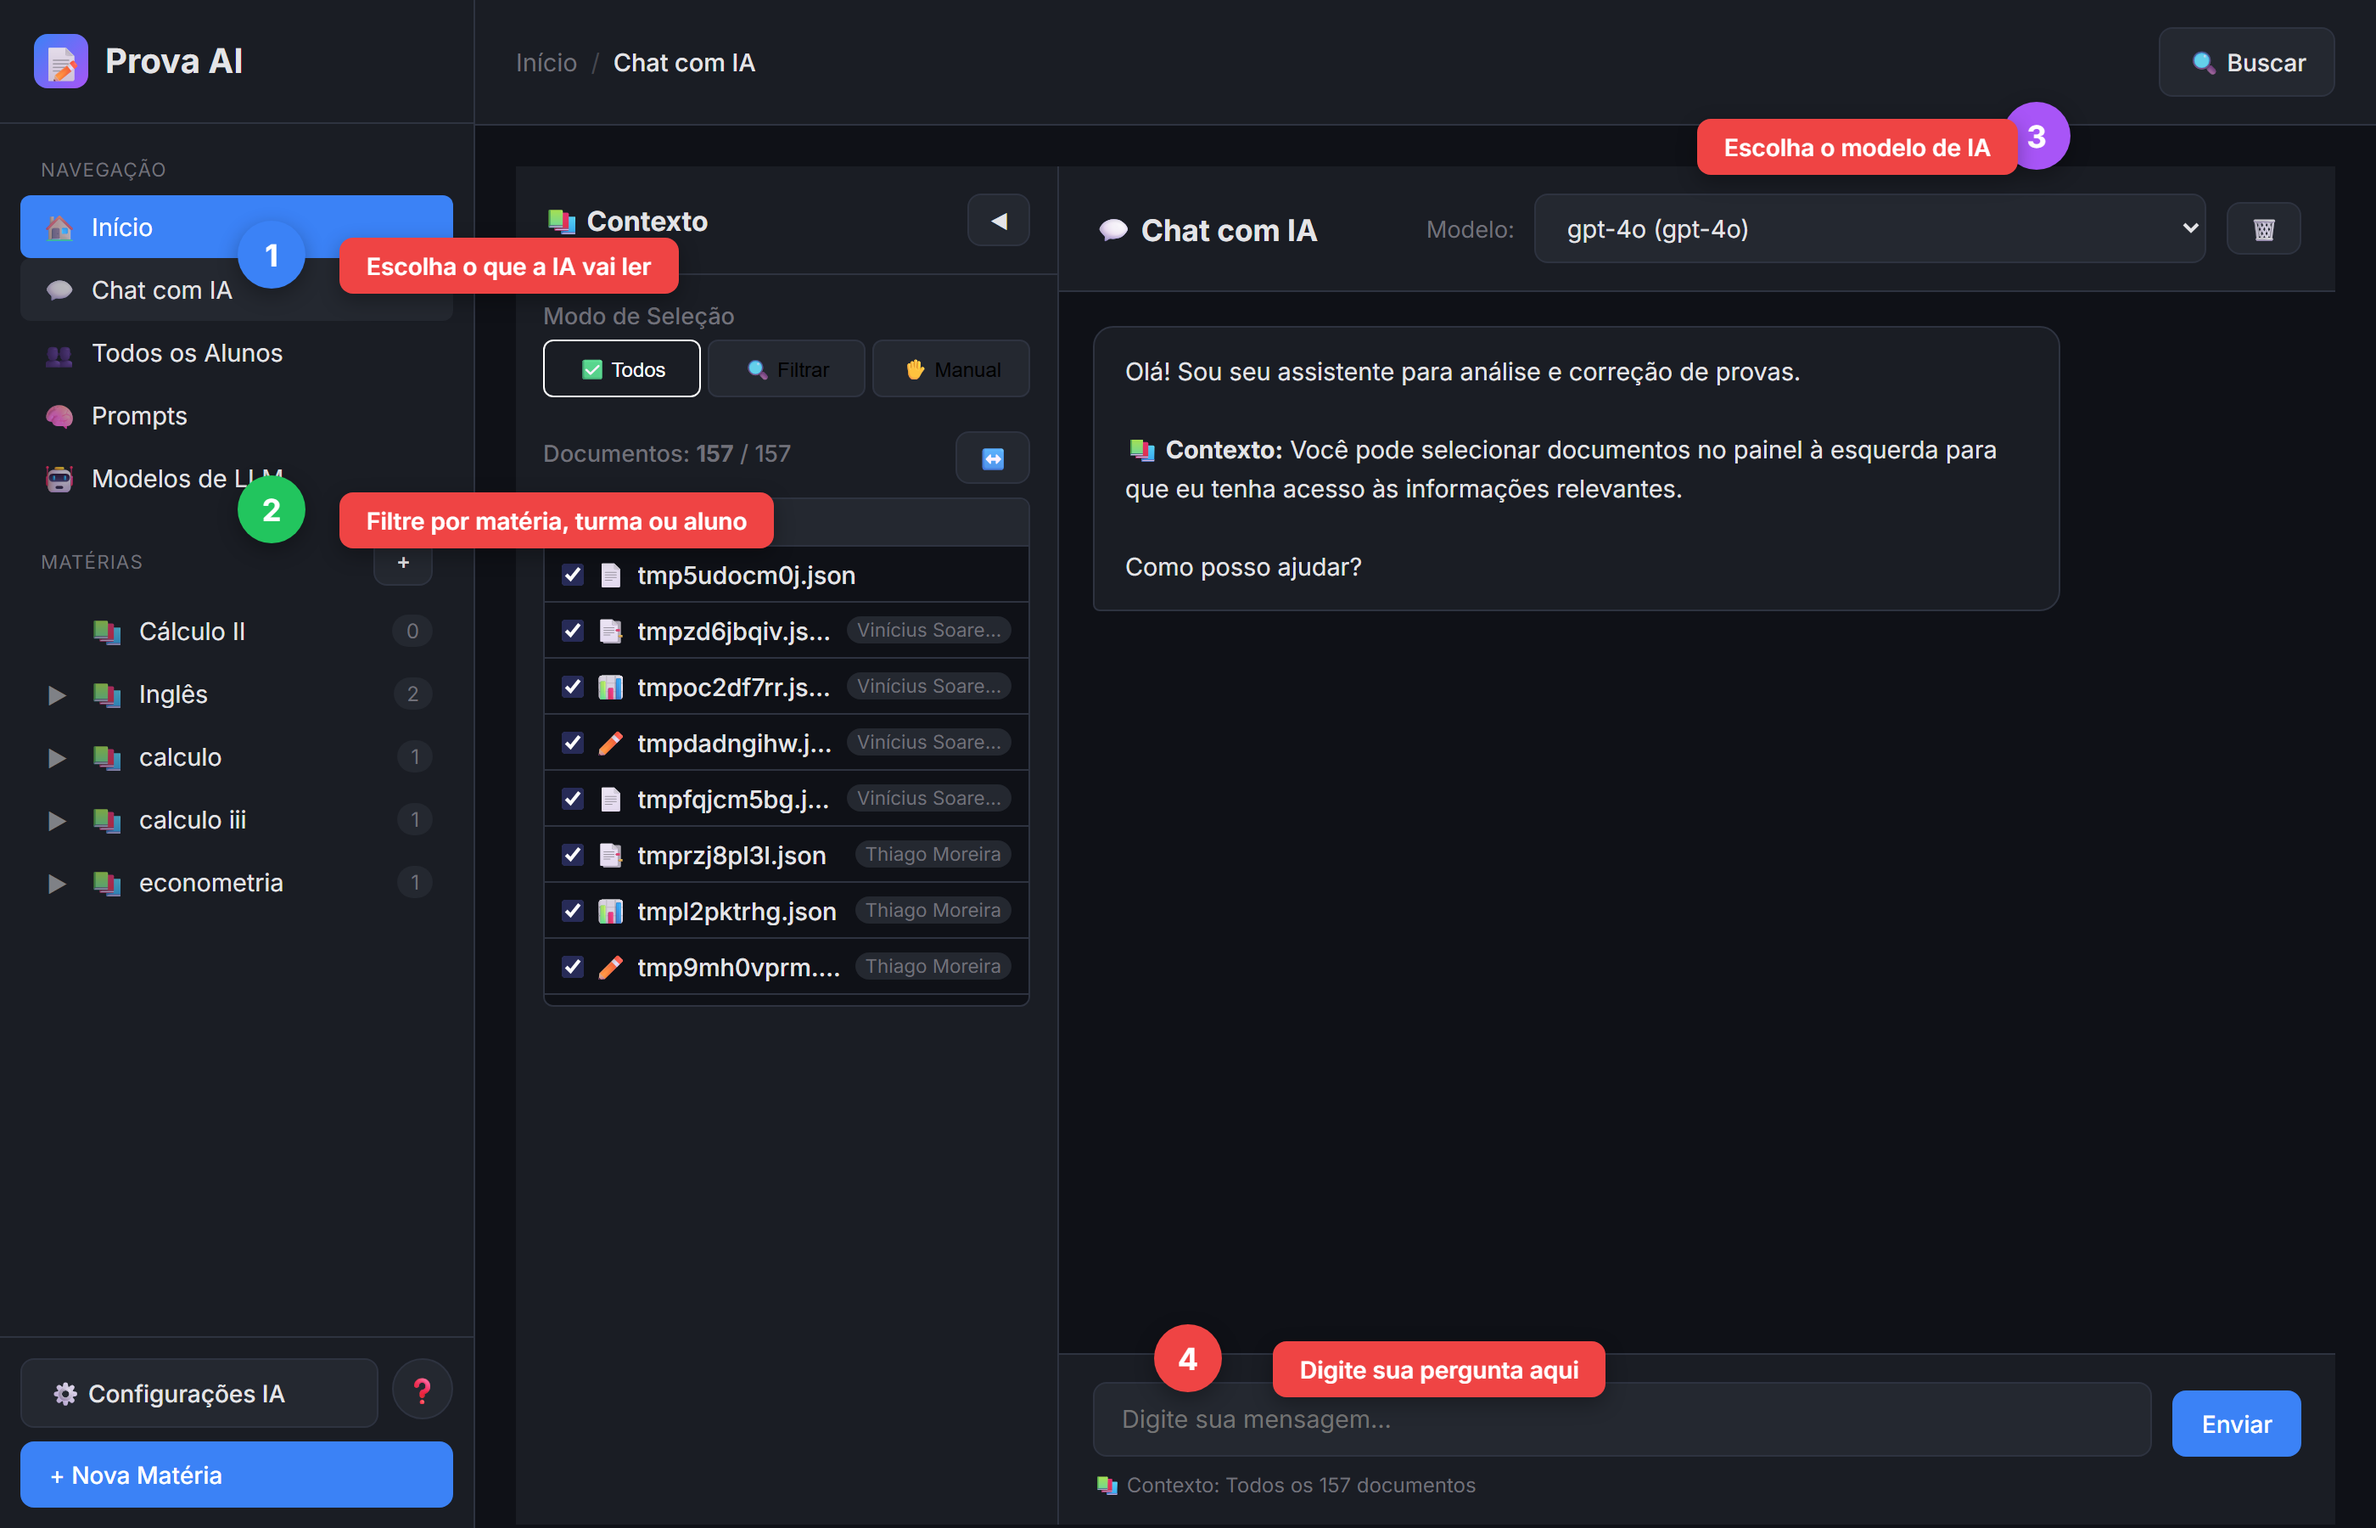
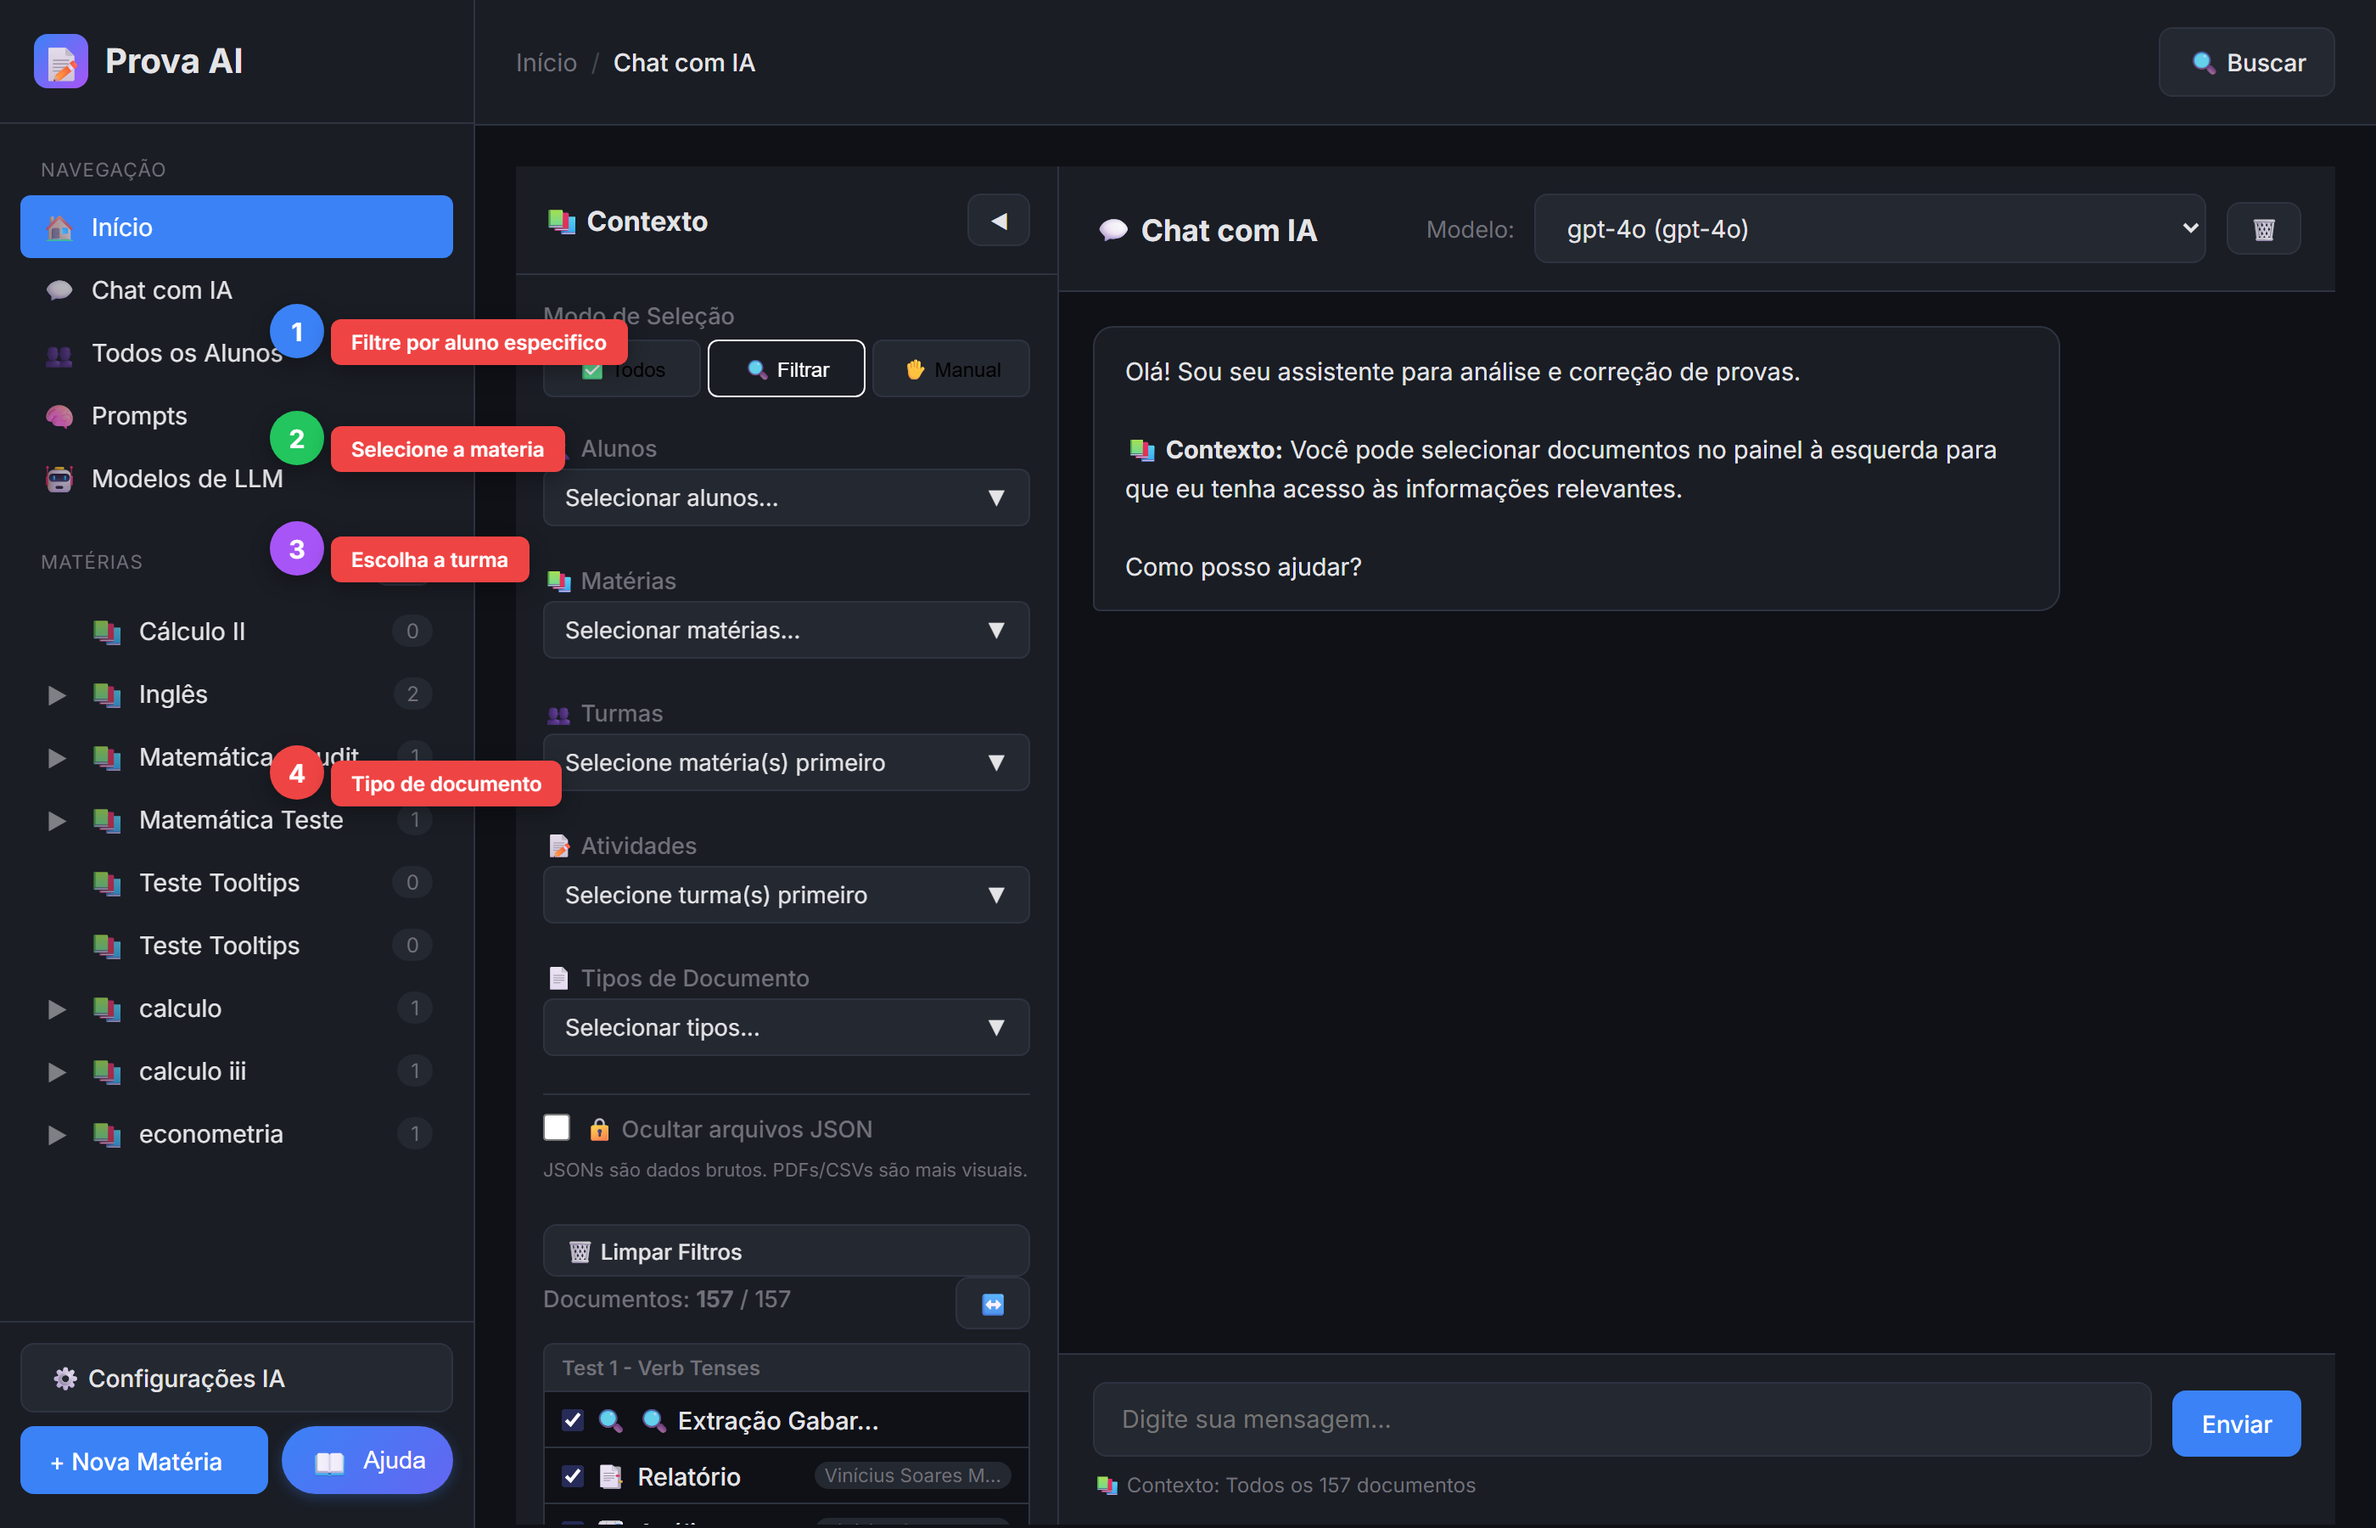
Corrige imagens do tutorial e bug dos filtros

diff --git a/frontend/chat_system.js b/frontend/chat_system.js
@@ -1316,10 +1316,21 @@ function toggleContextPanel() {
     const panel = document.getElementById('context-panel');
     const body = document.getElementById('context-body');
     const icon = document.getElementById('context-toggle-icon');
-    
+
     panel.classList.toggle('collapsed');
-    body.style.display = panel.classList.contains('collapsed') ? 'none' : 'block';
-    icon.textContent = panel.classList.contains('collapsed') ? '▶' : '◀';
+    const isCollapsed = panel.classList.contains('collapsed');
+
+    body.style.display = isCollapsed ? 'none' : 'block';
+    icon.textContent = isCollapsed ? '▶' : '◀';
+
+    // Restaurar estado dos filtros ao reabrir o painel
+    if (!isCollapsed) {
+        const ctx = window.chatState.context;
+        const filtersDiv = document.getElementById('context-filters');
+        if (filtersDiv) {
+            filtersDiv.style.display = ctx.mode === 'filtered' ? 'block' : 'none';
+        }
+    }
 }
 
 function setContextMode(mode) {
